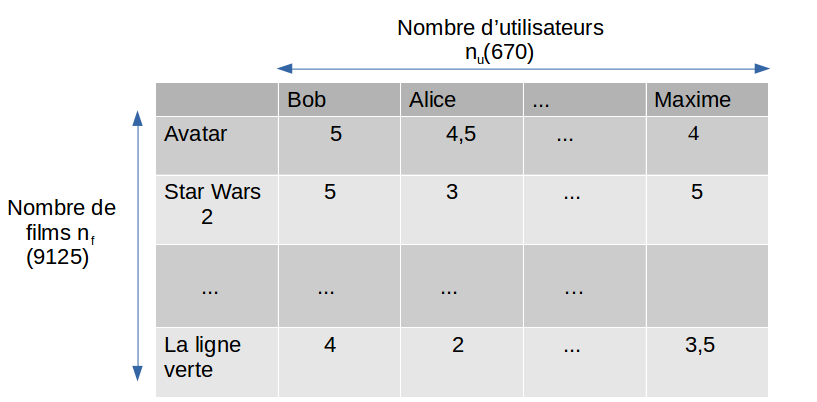
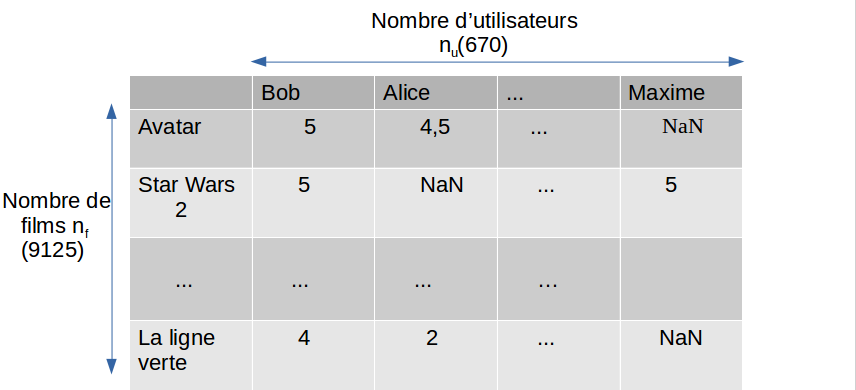
tableau des notes avec Nan

diff --git a/compte rendu/compte_rendu.tex b/compte rendu/compte_rendu.tex
@@ -25,7 +25,7 @@
 %une conclusion
 %mettre le code en annexe
 %inclure graphiques et commenter ce qu'on obtient et donner des valeurs du taux d'erreur du nb d etape et du nb de carac dans la partie de Yassine
-%mettre des NaN dans la figure du tableau des notes Y
+%mettre des NaN dans la figure du tableau des notes Y -> fait !!
 %faire une belle page de présentation (Rania répond pas)
 %Ajouter des figures dans la partie d'anthony
 
